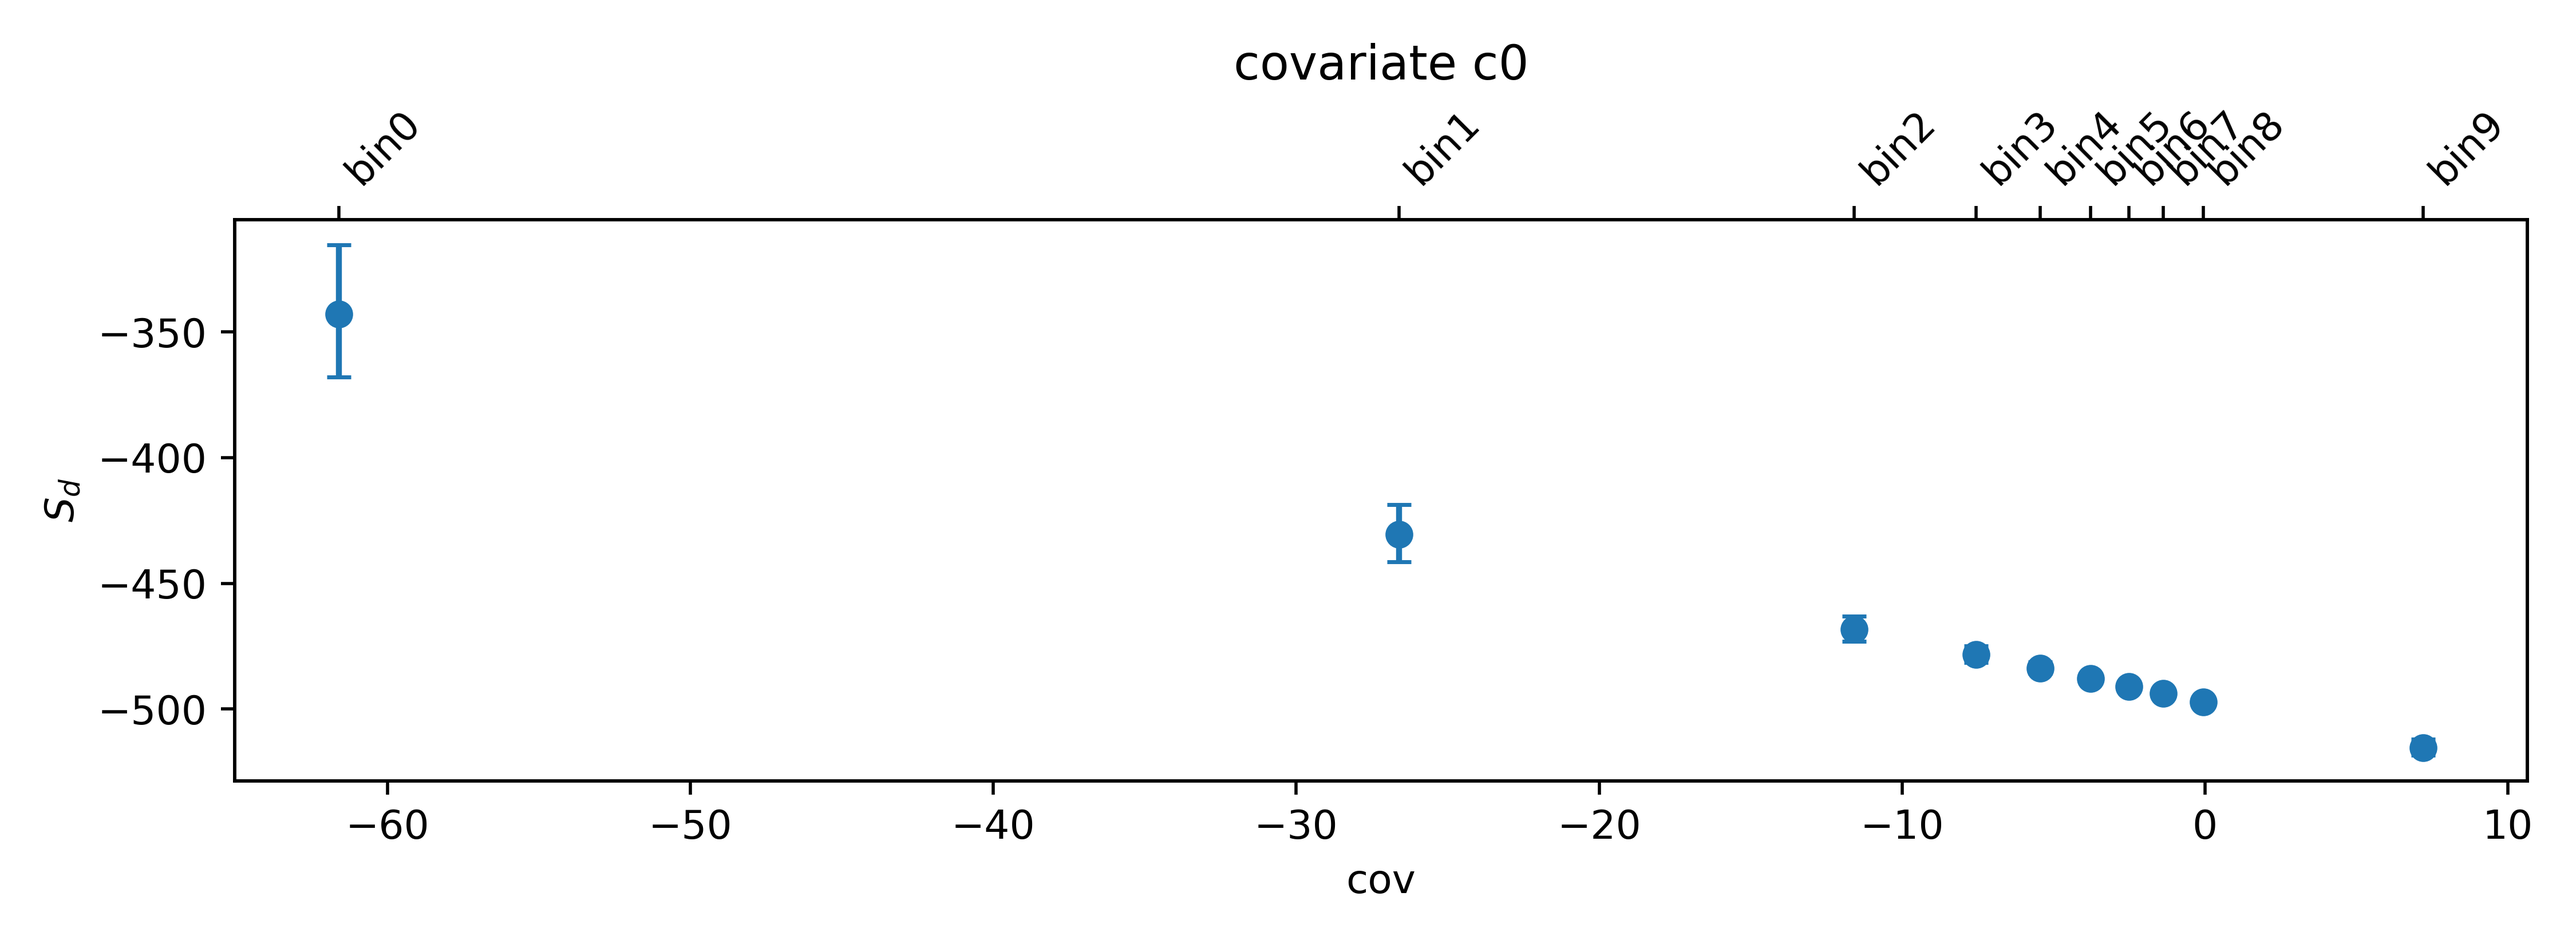
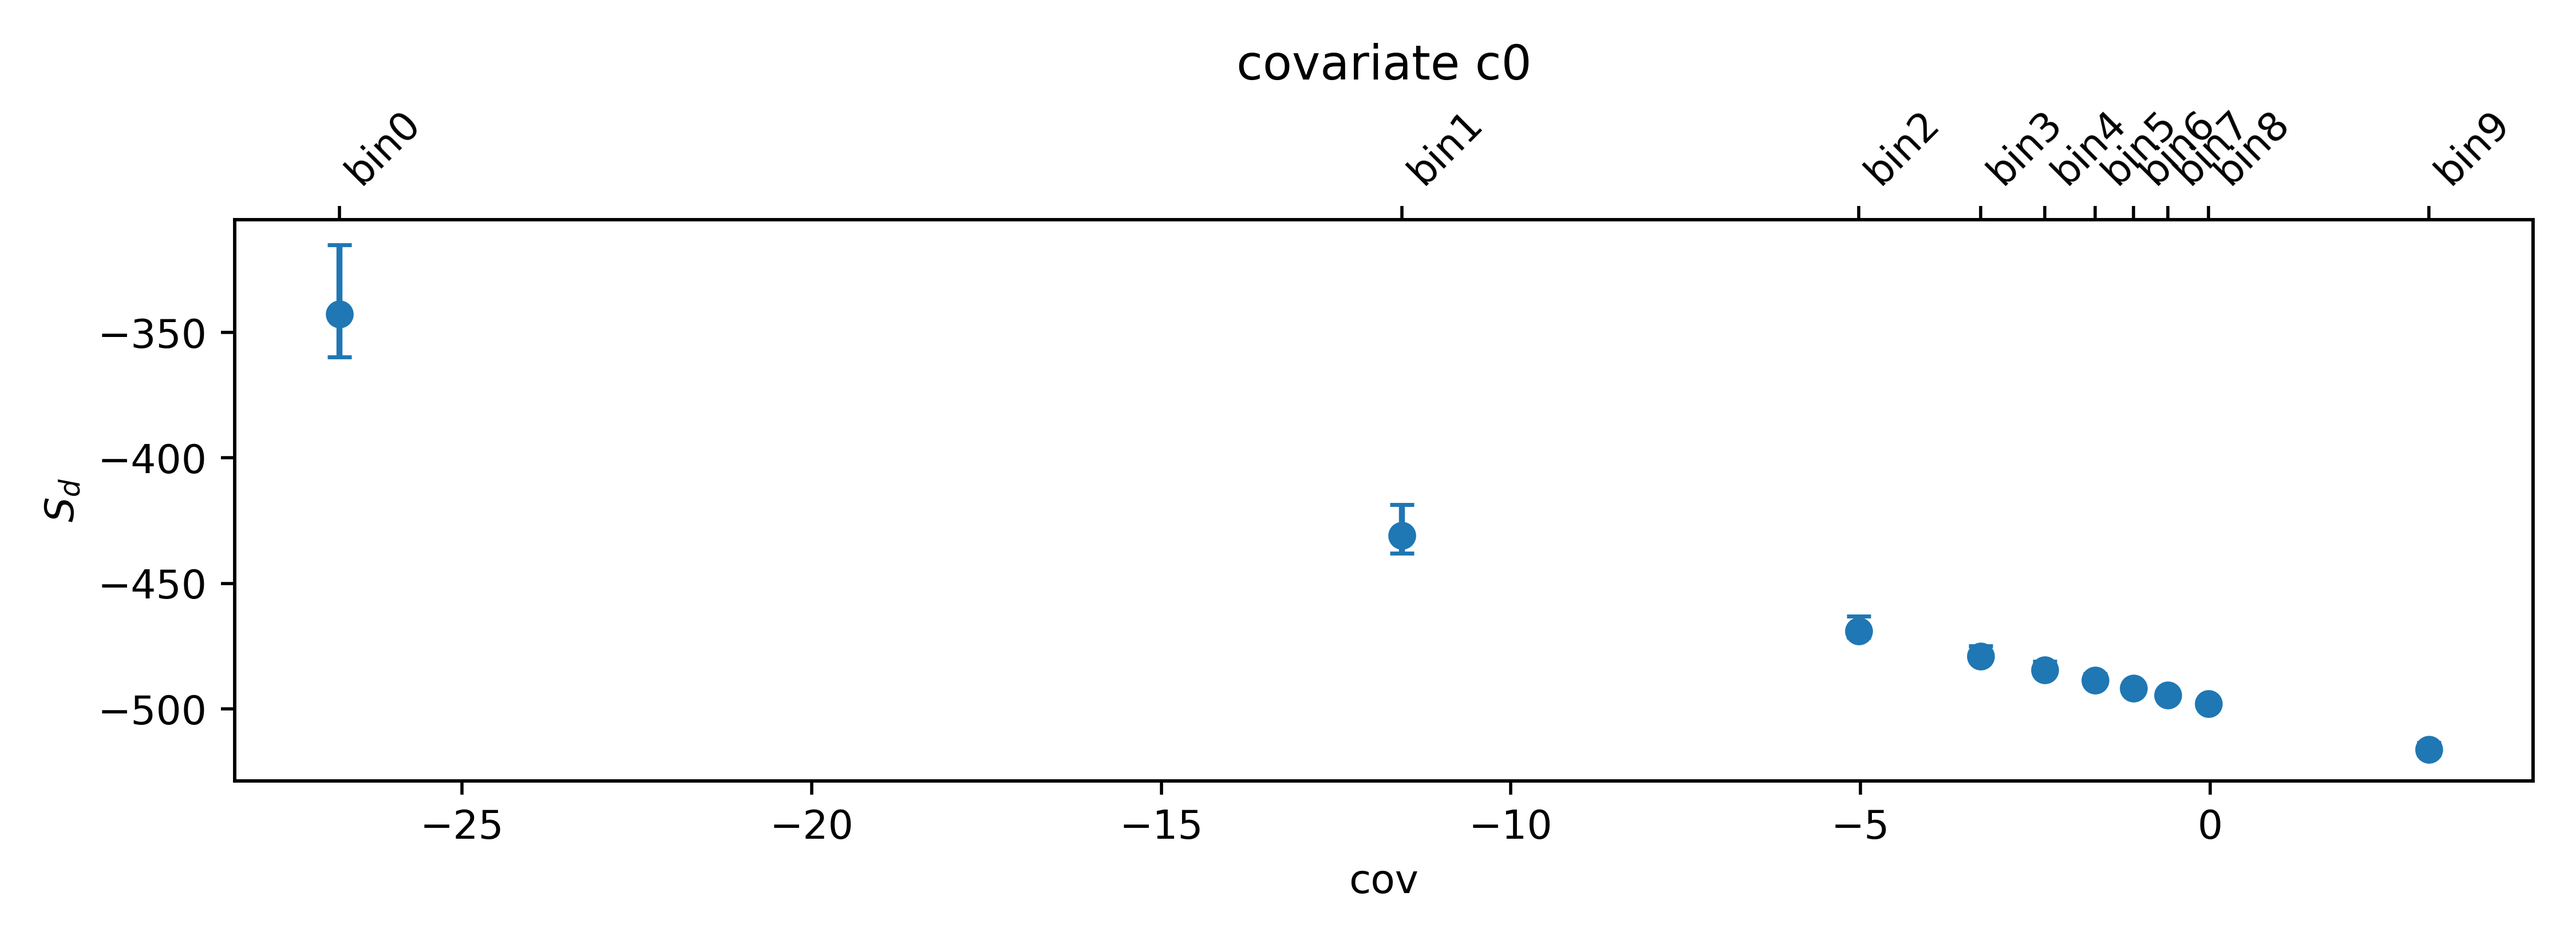
Use log10 instead of natural logarithm when transforming covariate values.

diff --git a/workflow/scripts/infer_covariate_dfe.py b/workflow/scripts/infer_covariate_dfe.py
@@ -12,7 +12,7 @@ mpl.rcParams['figure.dpi'] = 500
 
 spectra = fd.Spectra.from_file('sfs.rho.csv')
 bins = pd.read_csv('rho_bins.csv').iloc[:, 1].to_numpy()
-values = np.log((bins[:-1] + bins[1:]) / 2)
+values = np.log10((bins[:-1] + bins[1:]) / 2)
 types = spectra.merge_groups(level=1).types
 covariate = fd.Covariate('S_d', dict(zip(types, values)))
 
